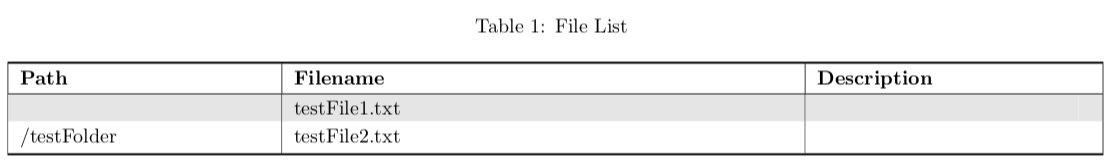
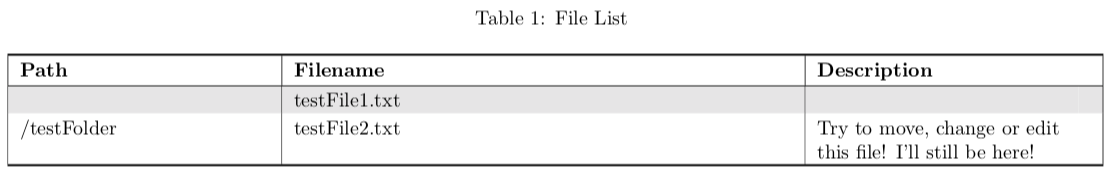
Add description in table lost on previous change

Changed region(s): [[0.0, 0.3049, 1.0, 0.8841], [0.0, 0.8232, 1.0, 0.9756], [0.4281, 0.061, 0.5809, 0.2134]]

diff --git a/sections/FileTable.tex b/sections/FileTable.tex
@@ -23,6 +23,6 @@ Path & Filename & Description & Hash \\
 \endlastfoot
 \taburowcolors[1]2{lightgrey..white}
              & testFile1.txt &  & 33918e2384aee6ec78588db2ea6eacc6 \\
- /testFolder & testFile2.txt &  & a3f84bf2a1f0f0b599d51c089c99091e \\
+ /testFolder & testFile2.txt & Try to move, change or edit this file! I'll still be here! & a3f84bf2a1f0f0b599d51c089c99091e \\
 \end{longtabu}
 \end{landscape}
